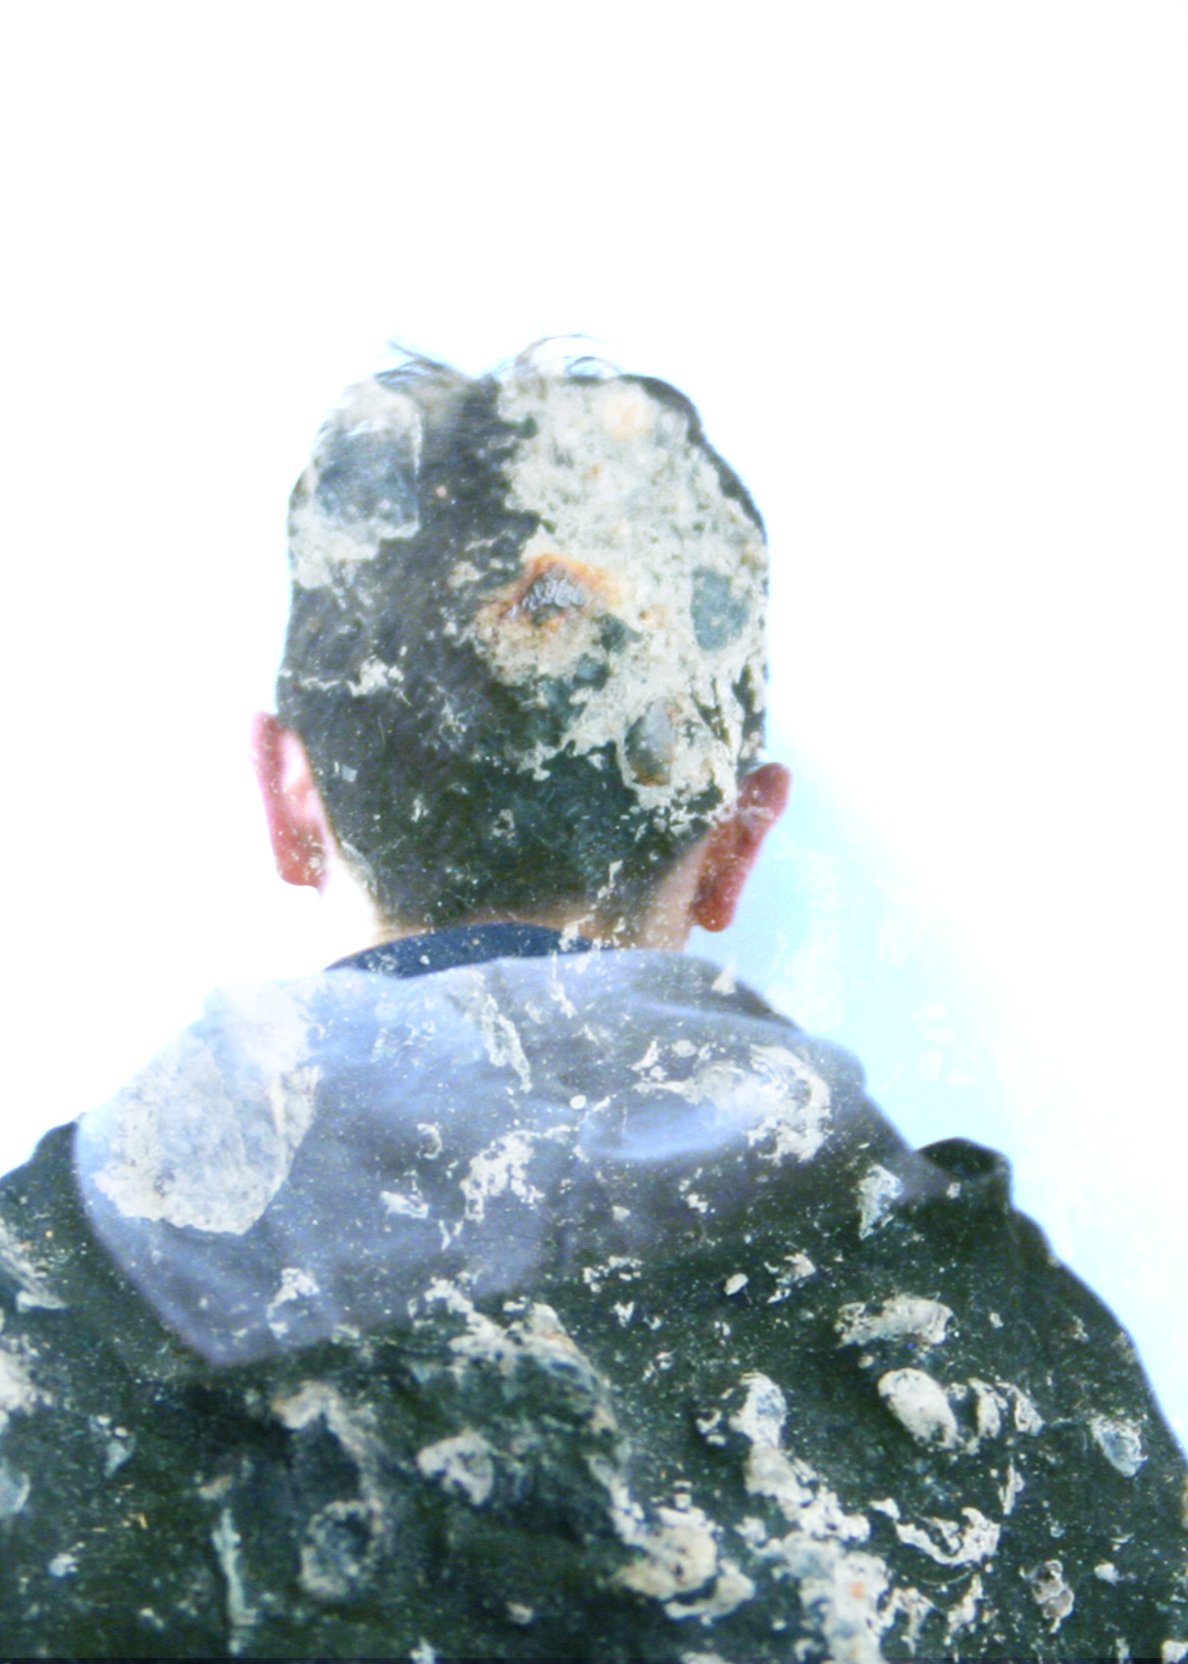
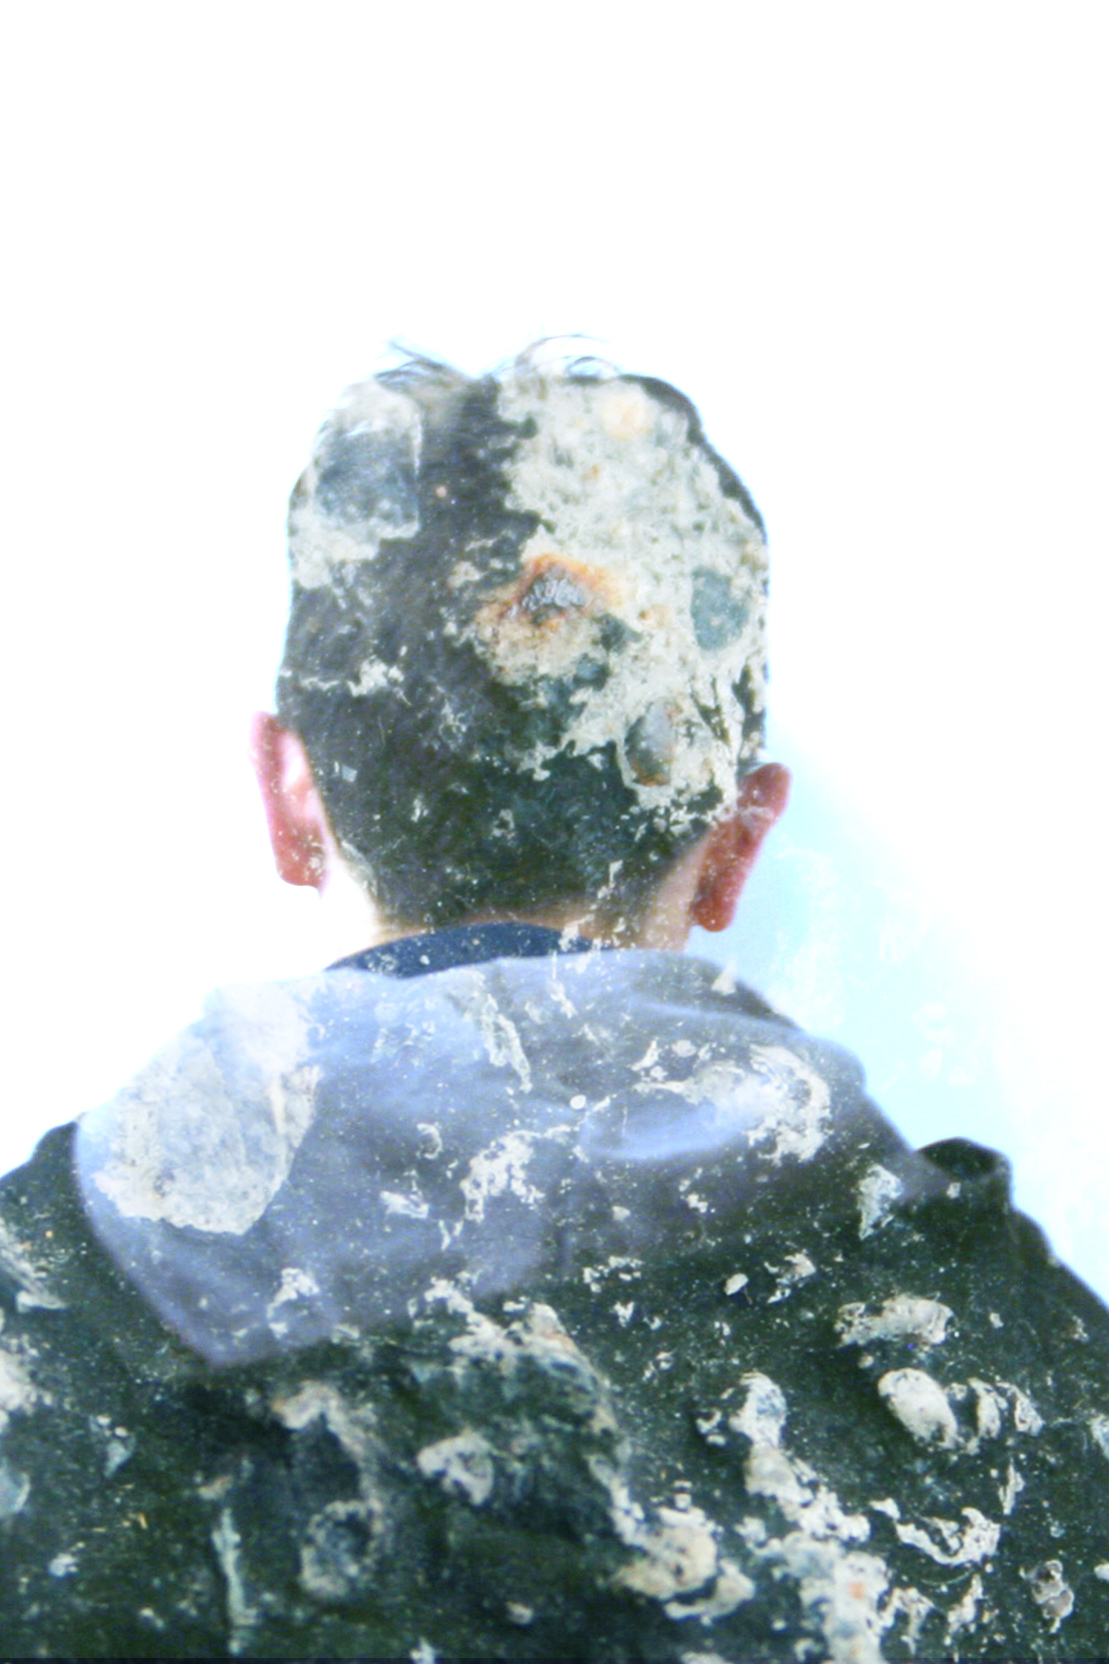
Stupid Stuff
Crop images to same ratio and work on stupid stuff page

diff --git a/HTML/stupidStuff.html b/HTML/stupidStuff.html
@@ -14,7 +14,7 @@
         </div>
         <div id = "images">
             <div class = "images">
-                <a href = "https://www.youtube.com" target = "_blank"><img src = "../Images/Rainbow_Pineapple.jpg" /></a>
+                <a href = "https://www.youtube.com/watch?v=7QX7sB1zOn4" target = "_blank"><img src = "../Images/Rainbow_Pineapple.jpg" /></a>
                 <p>Lorem ipsum dolor sit amet, consectetur adipiscing elit. Donec mollis dolor a metus cursus, eu laoreet lacus sollicitudin. Integer dapibus gravida metus, vel pulvinar lacus.</p>
             </div>
             <div class = "images">
@@ -22,13 +22,13 @@
                 <p>Lorem ipsum dolor sit amet, consectetur adipiscing elit. Donec mollis dolor a metus cursus, eu laoreet lacus sollicitudin. Integer dapibus gravida metus, vel pulvinar lacus.</p>
             </div>
             <div class = "images">
-                <img src = "../Images/Zak's Amazing Greatness.jpg" />
-                <p>Lorem ipsum dolor sit amet, consectetur adipiscing elit. Donec mollis dolor a metus cursus, eu laoreet lacus sollicitudin. Integer dapibus gravida metus, vel pulvinar lacus.</p>
-            </div>  
-            <div class = "images">
                 <img src = "../Images/Potato_Corban_Mak_Moon.jpg" />
                 <p>Lorem ipsum dolor sit amet, consectetur adipiscing elit. Donec mollis dolor a metus cursus, eu laoreet lacus sollicitudin. Integer dapibus gravida metus, vel pulvinar lacus.</p>
             </div>
+            <div class = "images">
+                <img src = "../Images/Zak's Amazing Greatness.jpg" />
+                <p>Lorem ipsum dolor sit amet, consectetur adipiscing elit. Donec mollis dolor a metus cursus, eu laoreet lacus sollicitudin. Integer dapibus gravida metus, vel pulvinar lacus.</p>
+            </div>  
             <div class = "images">
                 <img src = "../Images/Dallin Bird Poop.jpg" />
                 <p>Lorem ipsum dolor sit amet, consectetur adipiscing elit. Donec mollis dolor a metus cursus, eu laoreet lacus sollicitudin. Integer dapibus gravida metus, vel pulvinar lacus.</p>
@@ -38,16 +38,13 @@
                 <p>Lorem ipsum dolor sit amet, consectetur adipiscing elit. Donec mollis dolor a metus cursus, eu laoreet lacus sollicitudin. Integer dapibus gravida metus, vel pulvinar lacus.</p>
             </div>
             <div class = "images">
-                <img src = "../Images/CTE Doesn't Deserve a 100%.JPG" />
-                <p>Lorem ipsum dolor sit amet, consectetur adipiscing elit. Donec mollis dolor a metus cursus, eu laoreet lacus sollicitudin. Integer dapibus gravida metus, vel pulvinar lacus.</p>
-            </div>
-            <div class = "images">
                 <img src = "../Images/At Least They're Alternating.jpg" />
                 <p>Lorem ipsum dolor sit amet, consectetur adipiscing elit. Donec mollis dolor a metus cursus, eu laoreet lacus sollicitudin. Integer dapibus gravida metus, vel pulvinar lacus.</p>
             </div>
         </div>
         <div id = "buttons">
             <a href = "index.html" class = "button flushLeft"><strong>&#x226A;</strong>About Me</a>
+            <a href = ""></a>
         </div>
     </body>
 </html>

diff --git a/CSS/default.css b/CSS/default.css
@@ -20,7 +20,7 @@ h1, h2, h3, h4, h5, h6, p, a, li {
     width: 100%;
     height: 40px;
     display: grid;
-    grid: 40px / 55px 125px 125px;
+    grid-template: 40px / 55px 125px 125px;
     grid-column-gap: 0px;
     transition: background-color 500ms ease-in-out 0s;
     -o-transition: background-color 500ms ease-in-out 0s;
@@ -83,7 +83,8 @@ h3 {
 .button {
     background-color: #0080AD;
     border-radius: 50%;
-    width: 12.5%;
+    width: 12.5%;   
+    min-width: 150px;
     height: 25px;
     font-size: 20px;
     padding: 0 4px 0 4px;
@@ -109,5 +110,5 @@ h3 {
 }
 #buttons {
     display: grid;
-    grid: 25px / auto;
+    grid-template: 25px / auto auto;;
 }

diff --git a/CSS/stupidStuff.css b/CSS/stupidStuff.css
@@ -1,28 +1,6 @@
 #images {
-    column-count: 2;
-    column-gap: 2.5%;
-}
-.images {
-    display: inline;
-    position: relative;
-    text-align: center;
-}
-.images img {
-    z-index: -1;
-}
-.images img, .images p {
-    min-width: 470px;
-}
-.images p {
-    margin-top: -100px;
-    position: absolute;
-    display: none;
-    left: 50%;
-    transform: translate(-50%, -50%);
-}
-.images:hover p {
-    display: block;
-}
-.images:hover {
-    color: rgba(255, 255, 255, 25%)
+    margin: auto;
+    display: grid;
+    grid-template: auto auto auto auto / 47.5% 47.5%;
+    grid-column-gap: 5%;
 }

diff --git a/HTML/default.html b/HTML/default.html
@@ -11,5 +11,10 @@
             <div><a href = "index.html">About Me</a></div>
             <div><a href = "disclaimer.html">Stupid Stuff</a></div>
         </div>
+        
+        <div id = "buttons">
+            <a href = ""></a>
+            <a href = ""></a>
+        </div>
     </body>
 </html>

diff --git a/HTML/index.html b/HTML/index.html
@@ -51,6 +51,7 @@
             </ul>
         </div>
         <div id = "buttons">
+            <a href = ""></a>
             <a href = "disclaimer.html" class = "button flushRight">Stupid Stuff <strong>&#x226B;</strong></a>
         </div>
     </body>
